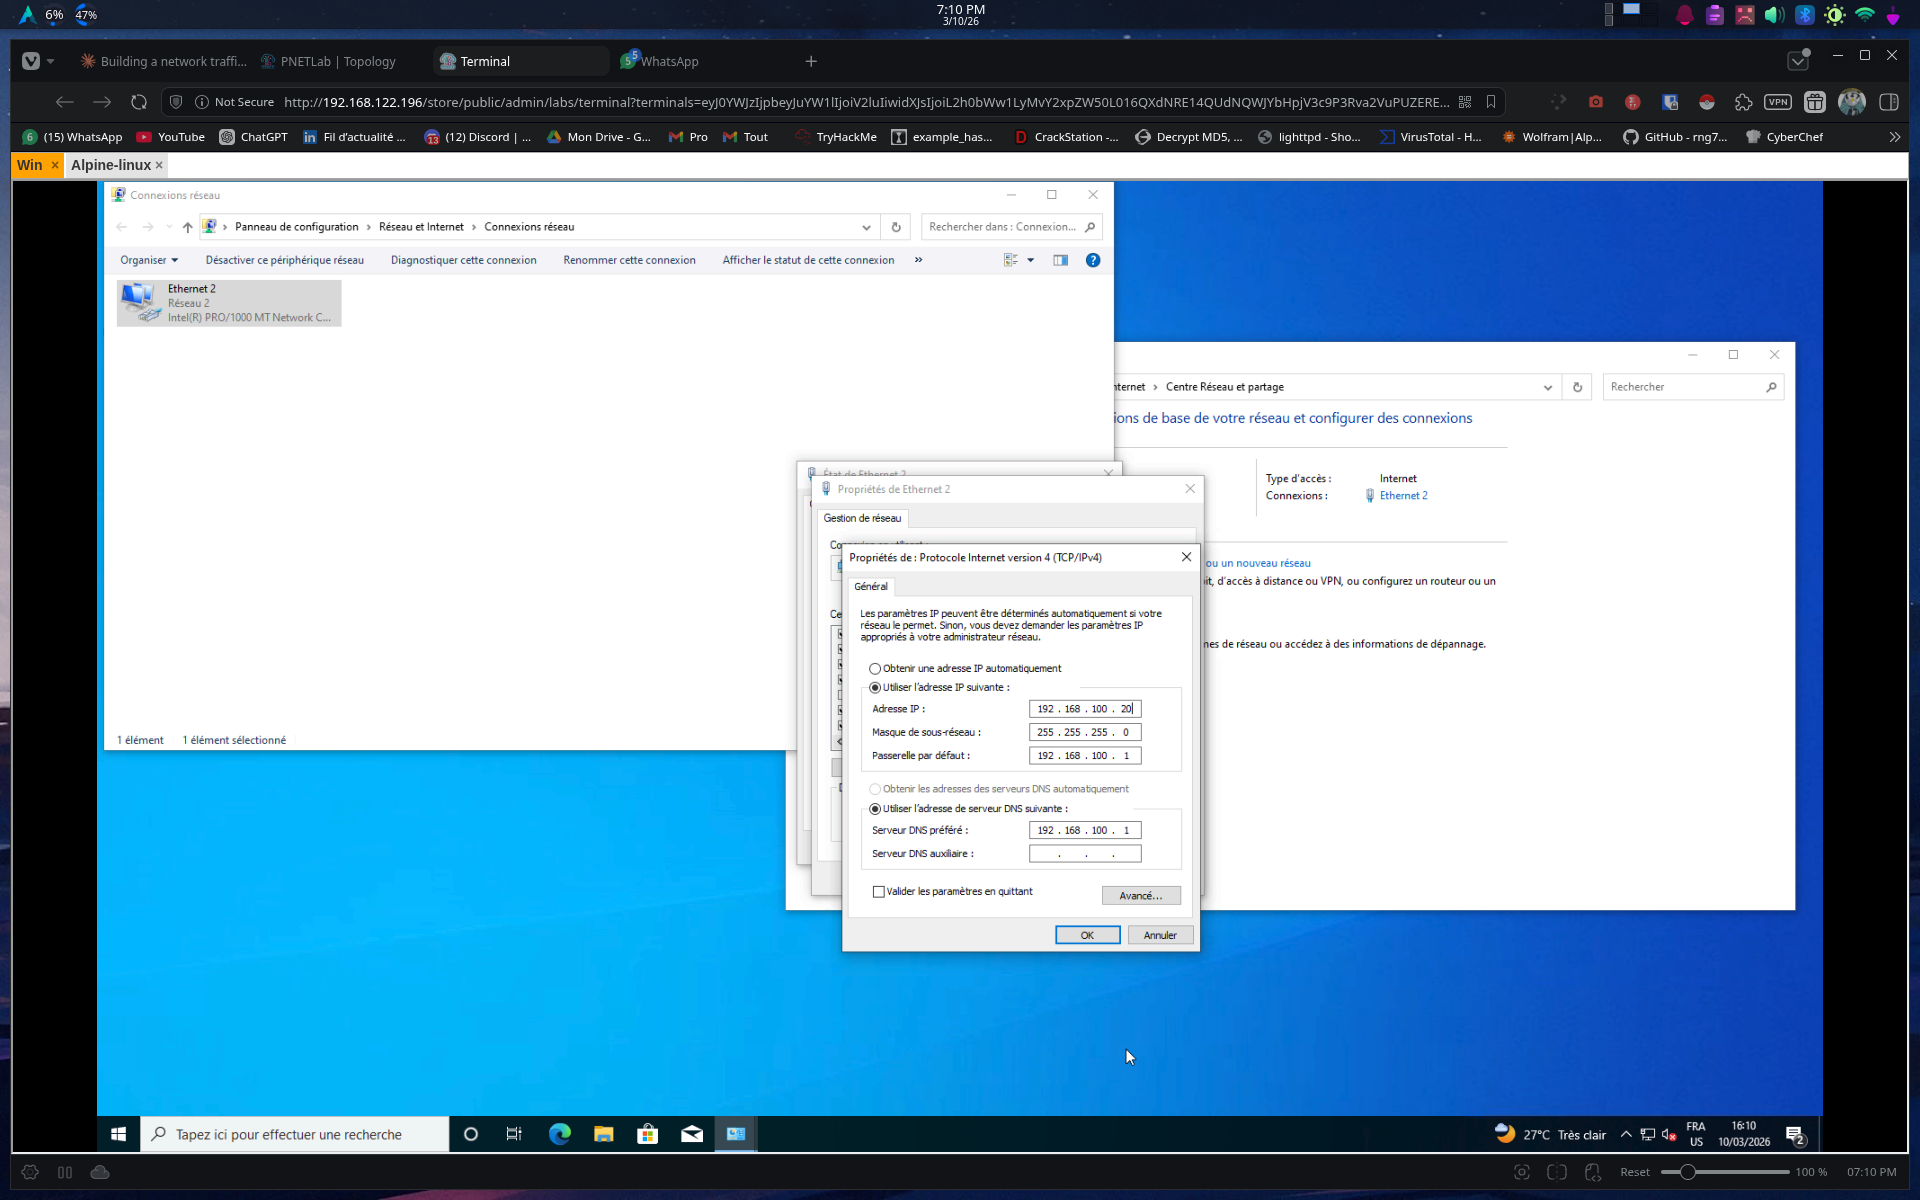
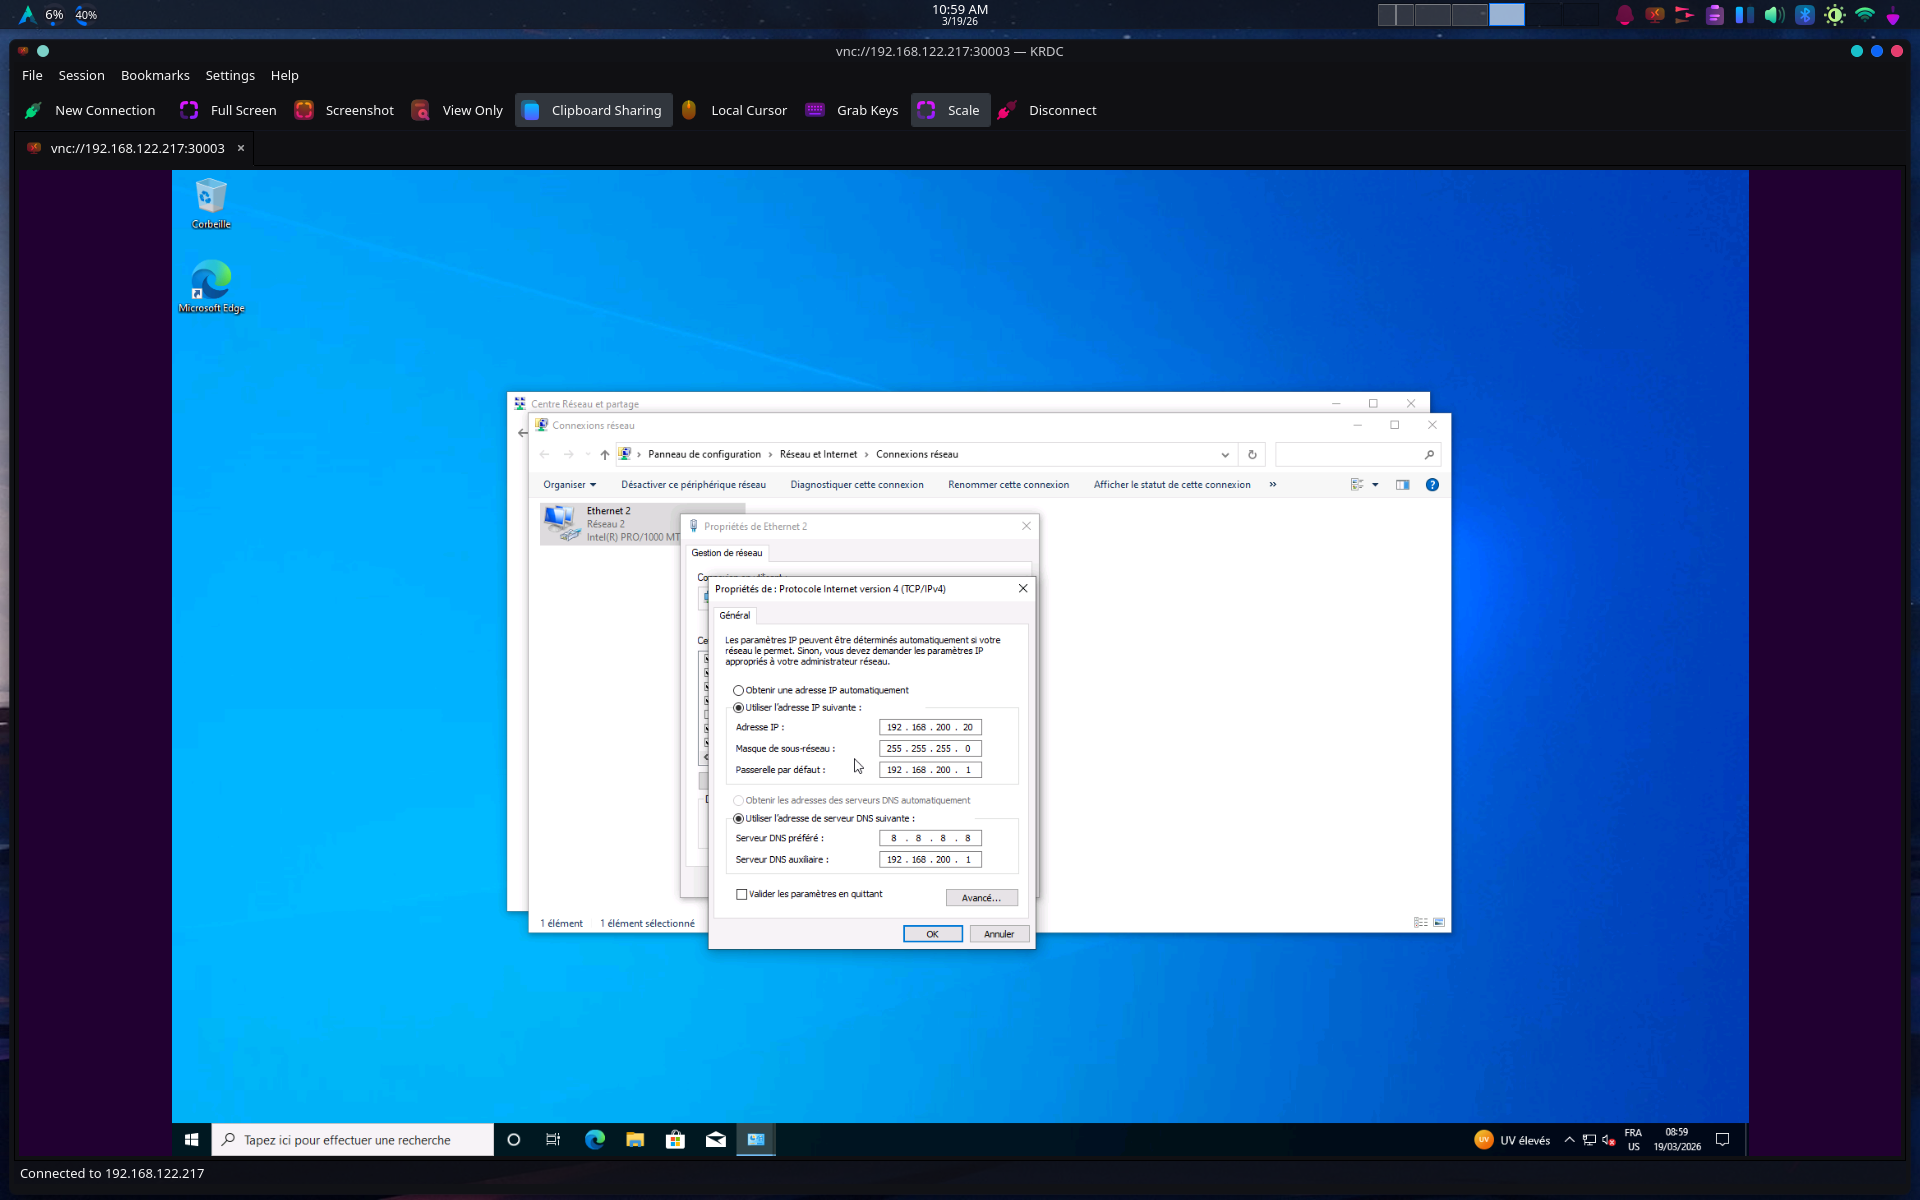
Fix subnet and figure numbering in Phase 1

diff --git a/Phase 1 — Environment Setup.md b/Phase 1 — Environment Setup.md
@@ -106,9 +106,9 @@ nano project-1.xml
   <name>project-1</name>
   <bridge name='virbr2'/>
   <forward mode='nat'/>
-  <ip address='192.168.100.1' netmask='255.255.255.0'>
+  <ip address='192.168.200.1' netmask='255.255.255.0'>
     <dhcp>
-      <range start='192.168.100.2' end='192.168.100.254'/>
+      <range start='192.168.200.2' end='192.168.200.254'/>
     </dhcp>
   </ip>
 </network>
@@ -122,10 +122,12 @@ sudo virsh net-autostart project-1
 sudo virsh net-list --all
 ```
 
-![Figure 5 — Project network definition](assets/images/Project-network-definition.png)
+![Figure 5 — Project network creation ](assets/images/Project-1-creation.png)
+
+![Figure 6 — Project network definition](assets/images/Project-network-definition.png)
 
 The PnetLab VM's `eth1` interface was attached to this network,
-confirmed by the assigned address `192.168.100.19/24` on `pnet1`.
+confirmed by the assigned address `192.168.200.19/24` on `pnet1`.
 ![Figure 7 — Persistent network configuration](assets/images/Pnet-1-ip.png)
 
 ---
@@ -133,12 +135,12 @@ confirmed by the assigned address `192.168.100.19/24` on `pnet1`.
 ### Step 2 — Configure Alpine Linux
 ```bash
 # Assign static IP
-ip addr add 192.168.100.10/24 dev eth0
+ip addr add 192.168.200.10/24 dev eth0
 ip link set eth0 up
-ip route add default via 192.168.100.1
+ip route add default via 192.168.200.1
 ```
 
-![Figure 6 — Alpine Linux static IP configuration](assets/images/Alpine-Linux-static-IP.png)
+![Figure 8 — Alpine Linux static IP configuration](assets/images/Alpine-Linux-static-IP.png)
 
 Persist the configuration:
 ```bash
@@ -147,12 +149,12 @@ nano /etc/network/interfaces
 ```
 auto eth0
 iface eth0 inet static
-    address 192.168.100.10
+    address 192.168.200.10
     netmask 255.255.255.0
-    gateway 192.168.100.1
+    gateway 192.168.200.1
 ```
 
-![Figure 7 — Persistent network configuration](assets/images/Persistante-configuration.png)
+![Figure 9 — Persistent network configuration](assets/images/Persistante-configuration.png)
 
 ---
 
@@ -163,17 +165,17 @@ iface eth0 inet static
 > BSOD. This was resolved by modifying the disk interface to `if=ide`
 > in `/opt/unetlab/html/devices/qemu/device_qemu.php`.
 
-![Figure 8 — INACCESSIBLE_BOOT_DEVICE BSOD caused by virtio disk interface](assets/images/windows-issues.png)
+![Figure 10  — INACCESSIBLE_BOOT_DEVICE BSOD caused by virtio disk interface](assets/images/windows-issues.png)
 
 Static IP was assigned via:
 **Network & Internet Settings → Change adapter options → IPv4**
 ```
-IP Address:      192.168.100.20
+IP Address:      192.168.200.20
 Subnet Mask:     255.255.255.0
-Default Gateway: 192.168.100.1
+Default Gateway: 192.168.200.1
 ```
 
-![Figure 9 — Windows 10 static IP configuration](assets/images/Windows-Set-up.png)
+![Figure 11 — Windows 10 static IP configuration](assets/images/Windows-Set-up.png)
 
 ICMP was permitted through the Windows firewall:
 ```powershell
@@ -181,7 +183,7 @@ netsh advfirewall firewall add rule name="Allow ICMP" `
   protocol=icmpv4 dir=in action=allow
 ```
 
-![Figure 10 — Windows 10 successfully pinging Alpine Linux](assets/images/Win-Alpine.png)
+![Figure 12 — Windows 10 successfully pinging Alpine Linux](assets/images/Win-Alpine.png)
 
 ---
 
@@ -190,13 +192,13 @@ netsh advfirewall firewall add rule name="Allow ICMP" `
 Connectivity between both endpoints was confirmed:
 ```bash
 # From Alpine
-ping 192.168.100.20    # 0% packet loss confirmed
+ping 192.168.200.20    # 0% packet loss confirmed
 
 # From Windows
-ping 192.168.100.10    # 0% packet loss confirmed
+ping 192.168.200.10    # 0% packet loss confirmed
 ```
 
-![Figure 11 — Alpine Linux successfully pinging Windows 10](assets/images/Alpine-Win.png)
+![Figure 13 — Alpine Linux successfully pinging Windows 10](assets/images/Alpine-Win.png)
 
 To verify the full capture pipeline, SSH key authentication was
 configured between the Arch analysis host and PnetLab VM to enable
@@ -217,9 +219,9 @@ This streams packets from `pnet1` on the PnetLab VM directly to
 Wireshark on the Arch host, while simultaneously saving the capture
 to disk. All subsequent captures in this project use this pipeline.
 
-![Figure 12 — Live Wireshark capture on Arch host: Alpine pinging Windows](assets/images/Live-capture-arch-alpine.png)
+![Figure 14 — Live Wireshark capture on Arch host: Alpine pinging Windows](assets/images/Live-capture-arch-alpine.png)
 
-![Figure 13 — Live Wireshark capture on Arch host: Windows browsing via Edge](assets/images/Live-capture-arch-windows.png)
+![Figure 15 — Live Wireshark capture on Arch host: Windows browsing via Edge](assets/images/Live-capture-arch-windows.png)
 
 ---
 
